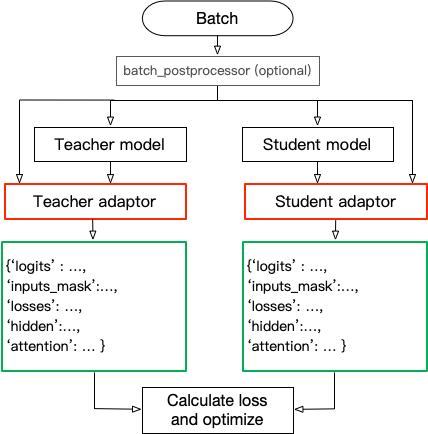
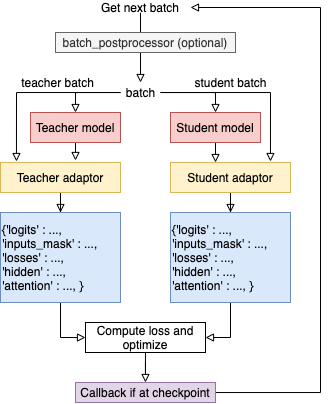
update docs

diff --git a/docs/source/Concepts.rst b/docs/source/Concepts.rst
@@ -22,10 +22,22 @@ Conventions
             # check batch datatype
             # passes batch to the model and adaptors
 
-    .. note:: 
-        1. During training, the distiller will check if the ``batch`` is a ``dict``, if so the model will be called as ``model(**batch, **args)``, otherwise the model is called as ``model(*batch, **args)``. Hence if the batch is not a dict, **users should make sure that the order of each element in the batch is the same as the order of the arguments of** ``model.forward``. ``args`` is used for passing additional parameters.
-        2. Users can define a ``batch_postprocessor`` function to post-process batches if needed. ``batch_postprocessor`` should take a batch and return a batch. See the explanation on ``train`` method of :ref:`distillers` for more details.
 
+Batch Format(important)
+-----------------------
+
+.. _forward-conventions:
+
+**Foward conventions**: each batch to be passed to the model should be a ``dict`` or ``tuple``:
+
+* if the batch is a ``dict``, the model will be called as ``model(**batch, **args)``;
+* if the batch is a ``tuple``, the model is called as ``model(*batch, **args)``. 
+
+Hence if the batch is not a dict, **users should make sure that the order of each element in the batch is the same as the order of the arguments of** ``model.forward``. ``args`` is used for passing additional parameters.
+
+Users can additionaly define a ``batch_postprocessor`` function to post-process batches if needed. ``batch_postprocessor`` should take a batch and return a batch. See the explanation on ``train`` method of :ref:`distillers` for more details.
+
+Since version 0.2.1, TextBrewer supports more flexible inputs scheme: users can **feed different batches to student and teacher**, or **feed the cached values** to save the forward pass time. See `Feed Different batches to Student and Teacher, Feed Cached Values`_.
 
 Configurations
 ==============
@@ -41,7 +53,7 @@ Distillers are in charge of conducting the actual experiments. The following dis
 * :class:`~textbrewer.BasicDistiller`: **single-teacher single-task** distillation, provides basic distillation strategies.
 * :class:`~textbrewer.GeneralDistiller` (Recommended): **single-teacher single-task** distillation, supports intermediate features matching. **Recommended most of the time**.
 * :class:`~textbrewer.MultiTeacherDistiller`: **multi-teacher** distillation, which distills multiple teacher models (of the same task) into a single student model. **This class doesn't support Intermediate features matching.**
-* :class:`~textbrewer.MultiTaskDistiller`: **multi-task** distillation, which distills multiple teacher models (of different tasks) into a single student. **This class doesn't support Intermediate features matching.**
+* :class:`~textbrewer.MultiTaskDistiller`: **multi-task** distillation, which distills multiple teacher models (of different tasks) into a single student.
 * :class:`~textbrewer.BasicTrainer`: Supervised training a single model on a labeled dataset, not for distillation. **It can be used to train a teacher model**.
 
 User-Defined Functions
@@ -145,3 +157,87 @@ In TextBrewer, there are two functions that should be implemented by users: :fun
         return {'logits': (model_outputs[0],),
             'hidden': model.outputs[1],
             'inputs_mask': batch[1]}
+
+.. _different_batches:
+
+Feed Different batches to Student and Teacher, Feed Cached Values
+=====================================================================
+
+Feed Different batches
+----------------------
+
+In some cases, student and teacher read different inputs. For example, if you distill a RoBERTa model to a BERT model, 
+they cannot share the inputs since they have different vocabularies.
+
+To solve this, one can build a dataset that returns a dict as the batch with keys ``'student'`` and ``'teacher'``.
+TextBrewer will unpack the dict, and feeds ``batch['student']`` to the student and its adaptor, feeds ``batch['teacher']`` to the teacher and its adaptor, following the :ref:`forward conventions <forward-conventions>`.
+
+Here is an example.
+
+    .. code-block:: python
+
+      import torch
+      from torch.utils.data import Dataset, TensorDataset, DataLoader
+
+      class TSDataset(Dataset):
+          def __init__(self, teacher_dataset, student_dataset):
+              # teacher_dataset and student_dataset are normal datasets 
+              # whose each element is a tuple or a dict.
+              assert len(teacher_dataset) == len(student_dataset), \
+                f"lengths of teacher_dataset {len(teacher_dataset)} and student_dataset {len(student_dataset)} are not the same!"
+
+              self.teacher_dataset = teacher_dataset
+              self.student_dataset = student_dataset
+
+          def __len__(self):
+              return len(self.teacher_dataset)
+
+          def __getitem__(self,i):
+              return {'teacher' : self.teacher_dataset[i], 'student' : self.student_dataset[i]}
+
+      teacher_dataset = TensorDataset(torch.randn(32,3),torch.randn(32,3))
+      student_dataset = TensorDataset(torch.randn(32,2),torch.randn(32,2))
+      tsdataset = TSDataset(teacher_dataset=teacher_dataset,student_dataset=student_dataset)
+      dataloader = DataLoader(dataset=tsdataset, ... )
+
+Feed Cached Values
+-------------------
+
+If you are ready to provide a dataset that returns dict with keys ``'student'`` and ``'teacher'`` like the one above, you can also add a another key ``'teacher_cache'``, which stores the pre-computed outputs from the teacher. Then TextBrewer will treat ``batch['teacher_cache']`` as the output from the teacher and feed it to the teacher's adaptor. No teacher's forward will be called.
+
+Here is an example.
+
+    .. code-block:: python
+
+      import torch
+      from torch.utils.data import Dataset, TensorDataset, DataLoader
+
+      class TSDataset(Dataset):
+          def __init__(self, teacher_dataset, student_dataset, teacher_cache):
+              # teacher_dataset and student_dataset are normal datasets 
+              # whose each element is a tuple or a dict.
+              # teacher_cache is a list of items; each item is the output from the teacher.
+              assert len(teacher_dataset) == len(student_dataset), \
+                f"lengths of teacher_dataset {len(teacher_dataset)} and student_dataset {len(student_dataset)} are not the same!"
+              assert len(teacher_dataset) == len(teacher_cache), \
+                f"lengths of teacher_dataset {len(teacher_dataset)} and teacher_cache {len(teacher_cache)} are not the same!"
+              self.teacher_dataset = teacher_dataset
+              self.student_dataset = student_dataset
+              self.teacher_cache = teacher_cache
+
+          def __len__(self):
+              return len(self.teacher_dataset)
+
+          def __getitem__(self,i):
+              return {'teacher' : self.teacher_dataset[i], 'student' : self.student_dataset[i], 'teacher_cache':self.teacher_cache[i]}
+
+      teacher_dataset = TensorDataset(torch.randn(32,3),torch.randn(32,3))
+      student_dataset = TensorDataset(torch.randn(32,2),torch.randn(32,2))
+
+      # We make some fake data and assume teacher model outputs are (logits, loss)
+      fake_logits = [torch.randn(3) for _ in range(32)]
+      fake_loss = [torch.randn(1)[0] for _ in range(32)]
+      teacher_cache = [(fake_logits[i],fake_loss[i]) for i in range(32)]
+
+      tsdataset = TSDataset(teacher_dataset=teacher_dataset,student_dataset=student_dataset, teacher_cache=teacher_cache)
+      dataloader = DataLoader(dataset=tsdataset, ... )

diff --git a/README.md b/README.md
@@ -88,6 +88,9 @@ Check our paper through [ACL Anthology](https://www.aclweb.org/anthology/2020.ac
 <!-- /TOC -->
 
 ## Introduction
+
+![](pics/arch.png)
+
 **Textbrewer** is designed for the knowledge distillation of NLP models. It provides various distillation methods and offers a distillation framework for quickly setting up experiments. 
 
 The main features of **TextBrewer** are:
@@ -122,6 +125,10 @@ To start distillation, users need to provide
 
 See [Full Documentation](https://textbrewer.readthedocs.io/) for detailed usages.
 
+### Architecture
+
+![](pics/arch.png)
+
 ## Installation
 
 * Requirements
@@ -149,6 +156,8 @@ See [Full Documentation](https://textbrewer.readthedocs.io/) for detailed usages
 ## Workflow
 
 ![](pics/distillation_workflow_en.png)
+
+![](pics/distillation_workflow2.png)
 
 * **Stage 1**: Preparation:
   1. Train the teacher model
@@ -186,7 +195,7 @@ print("student_model's parametrers:")
 result, _ = textbrewer.utils.display_parameters(student_model,max_level=3)
 print (result)
 
-# Define an adaptor for translating the model inputs and outputs
+# Define an adaptor for interpreting the model inputs and outputs
 def simple_adaptor(batch, model_outputs):
       # The second and third elements of model outputs are the logits and hidden states
     return {'logits': model_outputs[1],
@@ -218,6 +227,7 @@ with distiller:
 * [examples/cmrc2018\_example](examples/cmrc2018_example) (Chinese): distillation on CMRC 2018, a Chinese MRC task, using DRCD as data augmentation.
 * [examples/mnli\_example](examples/mnli_example) (English): distillation on MNLI, an English sentence-pair classification task. This example also shows how to perform multi-teacher distillation.
 * [examples/conll2003_example](examples/conll2003_example) (English): distillation on CoNLL-2003 English NER task, which is in form of sequence labeling.
+* [examples/msra_ner_example](examples/msra_ner_example) (Chinese): This example distills a Chinese-ELECTRA-base model on the MSRA NER task with distributed data-parallel training(single node, muliti-GPU).
 
 
 ## Experiments
@@ -291,22 +301,22 @@ We use GeneralDistiller in all the distillation experiments.
 We experiment on the following typical Enlgish datasets:
 
 | Dataset    | Task type | Metrics | \#Train | \#Dev | Note |
-| :---------- | -------- | ------- | ------- | ---- | ---- | 
+| :---------- | -------- | ------- | ------- | ---- | ---- |
 | [**MNLI**](https://www.nyu.edu/projects/bowman/multinli/)       | text classification | m/mm Acc | 393K    | 20K  | sentence-pair 3-class classification |
-| [**SQuAD 1.1**](https://rajpurkar.github.io/SQuAD-explorer/)   | reading comprehension | EM/F1   | 88K     | 11K  | span-extraction machine reading comprehension | 
+| [**SQuAD 1.1**](https://rajpurkar.github.io/SQuAD-explorer/)   | reading comprehension | EM/F1   | 88K     | 11K  | span-extraction machine reading comprehension |
 | [**CoNLL-2003**](https://www.clips.uantwerpen.be/conll2003/ner) | sequence labeling | F1      | 23K     | 6K   | named entity recognition |
 
 We list the public results from [DistilBERT](https://arxiv.org/abs/1910.01108), [BERT-PKD](https://arxiv.org/abs/1908.09355), [BERT-of-Theseus](https://arxiv.org/abs/2002.02925), [TinyBERT](https://arxiv.org/abs/1909.10351) and our results below for comparison.
 
 Public results:
 
-  | Model (public) | MNLI  | SQuAD  | CoNLL-2003 |
-  | :-------------  | --------------- | ------------- | --------------- |
-  | DistilBERT (T6)    | 81.6 / 81.1 | 78.1 / 86.2   | -               |
-  | BERT<sub>6</sub>-PKD (T6)     | 81.5 / 81.0     | 77.1 / 85.3   | -|
-  | BERT-of-Theseus (T6) | 82.4/  82.1   | -        | -                |
-  | BERT<sub>3</sub>-PKD (T3)     | 76.7 / 76.3     | -             | -|
-  | TinyBERT (T4-tiny) | 82.8 / 82.9                | 72.7 / 82.1   | -|
+| Model (public) | MNLI  | SQuAD  | CoNLL-2003 |
+| :-------------  | --------------- | ------------- | --------------- |
+| DistilBERT (T6)    | 81.6 / 81.1 | 78.1 / 86.2   | -               |
+| BERT<sub>6</sub>-PKD (T6)     | 81.5 / 81.0     | 77.1 / 85.3   | -|
+| BERT-of-Theseus (T6) | 82.4/  82.1   | -        | -                |
+| BERT<sub>3</sub>-PKD (T3)     | 76.7 / 76.3     | -             | -|
+| TinyBERT (T4-tiny) | 82.8 / 82.9                | 72.7 / 82.1   | -|
 
 Our results:
 
@@ -377,7 +387,7 @@ Distillers are in charge of conducting the actual experiments. The following dis
 * `BasicDistiller`: **single-teacher single-task** distillation, provides basic distillation strategies.
 * `GeneralDistiller` (Recommended): **single-teacher single-task** distillation, supports intermediate features matching. **Recommended most of the time**.
 * `MultiTeacherDistiller`: **multi-teacher** distillation, which distills multiple teacher models (of the same task) into a single student model. **This class doesn't support Intermediate features matching.**
-* `MultiTaskDistiller`: **multi-task** distillation, which distills multiple teacher models (of different tasks) into a single student. **This class doesn't support Intermediate features matching.**
+* `MultiTaskDistiller`: **multi-task** distillation, which distills multiple teacher models (of different tasks) into a single student.
 * `BasicTrainer`: Supervised training a single model on a labeled dataset, not for distillation. **It can be used to train a teacher model**.
 
 
@@ -406,9 +416,18 @@ We recommend that users use pre-trained student models whenever possible to full
 
 **A**: Knowledge distillation usually requires more training epochs and larger learning rate than training on the labeled dataset. For example, training SQuAD on BERT-base usually takes 3 epochs with lr=3e-5; however, distillation takes 30~50 epochs with lr=1e-4. **The conclusions are based on our experiments, and you are advised to try on your own data**.
 
+**Q**: My teacher model and student model take different inputs (they do not share vocabularies), so how can I distill?
+
+**A**: You need to feed different batches to the teacher and the student. See the section [Feed Different batches to Student and Teacher, Feed Cached Values](https://textbrewer.readthedocs.io/en/latest/Concepts.html#feed-different-batches-to-student-and-teacher-feed-cached-values) in the full documentation.
+
+**Q**: I have stored the logits from my teacher model. Can I use them in the distillation to save the forward pass time?
+
+**A**: Yes, see the section [Feed Different batches to Student and Teacher, Feed Cached Values](https://textbrewer.readthedocs.io/en/latest/Concepts.html#feed-different-batches-to-student-and-teacher-feed-cached-values) in the full documentation.
+
 ## Known Issues
 
 * ~~Multi-GPU training support is only available through `DataParallel` currently.~~
+* Multi-label classification is not supported.
 
 ## Citation
 

diff --git a/README_ZH.md b/README_ZH.md
@@ -25,8 +25,6 @@
 
 ### [TextBrewer完整文档](https://textbrewer.readthedocs.io/)
 
-## 哈工大讯飞联合实验室（HFL）2021提前批校园招聘开始了！欢迎各位[投递简历](https://wj.qq.com/s2/6730642/762d)！
-
 ## 更新
 
 **Aug 24, 2020**
@@ -123,6 +121,10 @@
 
 详细的API可参见 [完整文档](https://textbrewer.readthedocs.io/)。
 
+### TextBrewer结构
+
+![](pics/arch.png)
+
 ## 安装
 
 ### 安装要求
@@ -153,6 +155,8 @@ pip install ./textbrewer
 ## 工作流程
 
 ![](pics/distillation_workflow.png)
+
+![](pics/distillation_workflow2.png)
 
 * **Stage 1 :** 蒸馏之前的准备工作:
   1. 训练**教师**模型
@@ -220,6 +224,7 @@ with distiller:
 * [examples/cmrc2018\_example](examples/cmrc2018_example) (中文): CMRC 2018上的中文阅读理解任务蒸馏，并使用DRCD数据集做数据增强。
 * [examples/mnli\_example](examples/mnli_example) (英文): MNLI任务上的英文句对分类任务蒸馏，并展示如何使用多教师蒸馏。
 * [examples/conll2003_example](examples/conll2003_example) (英文): CoNLL-2003英文实体识别任务上的序列标注任务蒸馏。
+* [examples/msra_ner_example](examples/msra_ner_example) (中文): MSRA NER(中文命名实体识别)任务上，使用分布式数据并行训练的Chinese-ELECTRA-base模型蒸馏。
 
 ## 蒸馏效果
 
@@ -289,22 +294,22 @@ distill_config = DistillationConfig(temperature = 8, intermediate_matches = matc
 在英文实验中，我们使用了如下三个典型数据集。
 
 | Dataset    | Task type | Metrics | \#Train | \#Dev | Note |
-| :---------- | -------- | ------- | ------- | ---- | ---- | 
+| :---------- | -------- | ------- | ------- | ---- | ---- |
 | [**MNLI**](https://www.nyu.edu/projects/bowman/multinli/)       | 文本分类 | m/mm Acc | 393K    | 20K  | 句对三分类任务 |
-| [**SQuAD 1.1**](https://rajpurkar.github.io/SQuAD-explorer/)   | 阅读理解 | EM/F1   | 88K     | 11K  | 篇章片段抽取型阅读理解 | 
+| [**SQuAD 1.1**](https://rajpurkar.github.io/SQuAD-explorer/)   | 阅读理解 | EM/F1   | 88K     | 11K  | 篇章片段抽取型阅读理解 |
 | [**CoNLL-2003**](https://www.clips.uantwerpen.be/conll2003/ner) | 序列标注 | F1      | 23K     | 6K   | 命名实体识别任务 |
 
 我们在下面两表中列出了[DistilBERT](https://arxiv.org/abs/1910.01108), [BERT-PKD](https://arxiv.org/abs/1908.09355), [BERT-of-Theseus](https://arxiv.org/abs/2002.02925), [TinyBERT](https://arxiv.org/abs/1909.10351) 等公开的蒸馏结果，并与我们的结果做对比。
 
 Public results:
 
-  | Model (public) | MNLI | SQuAD | CoNLL-2003 |
-  | :-------------  | --------------- | ------------- | --------------- |
-  | DistilBERT (T6)    | 81.6 / 81.1 | 78.1 / 86.2   | -               |
-  | BERT<sub>6</sub>-PKD (T6)     | 81.5 / 81.0     | 77.1 / 85.3   | -|
-  | BERT-of-Theseus (T6) | 82.4/  82.1   | -        | -                |
-  | BERT<sub>3</sub>-PKD (T3)     | 76.7 / 76.3     | -             | -|
-  | TinyBERT (T4-tiny) | 82.8 / 82.9                | 72.7 / 82.1   | -|
+| Model (public) | MNLI | SQuAD | CoNLL-2003 |
+| :-------------  | --------------- | ------------- | --------------- |
+| DistilBERT (T6)    | 81.6 / 81.1 | 78.1 / 86.2   | -               |
+| BERT<sub>6</sub>-PKD (T6)     | 81.5 / 81.0     | 77.1 / 85.3   | -|
+| BERT-of-Theseus (T6) | 82.4/  82.1   | -        | -                |
+| BERT<sub>3</sub>-PKD (T3)     | 76.7 / 76.3     | -             | -|
+| TinyBERT (T4-tiny) | 82.8 / 82.9                | 72.7 / 82.1   | -|
 
 Our results:
 
@@ -371,7 +376,7 @@ Distiller负责执行实际的蒸馏过程。目前实现了以下的distillers:
 * `BasicDistiller`: 提供**单模型单任务**蒸馏方式。可用作测试或简单实验。
 * `GeneralDistiller` (常用): 提供**单模型单任务**蒸馏方式，并且支持**中间层特征匹配**，一般情况下**推荐使用**。
 * `MultiTeacherDistiller`: 多教师蒸馏。将多个（同任务）教师模型蒸馏到一个学生模型上。**暂不支持中间层特征匹配**。
-* `MultiTaskDistiller`：多任务蒸馏。将多个（不同任务）单任务教师模型蒸馏到一个多任务学生模型上。**暂不支持中间层特征匹配**。
+* `MultiTaskDistiller`：多任务蒸馏。将多个（不同任务）单任务教师模型蒸馏到一个多任务学生模型。
 * `BasicTrainer`：用于单个模型的有监督训练，而非蒸馏。**可用于训练教师模型**。
 
 ### 用户定义函数
@@ -398,9 +403,18 @@ Distiller负责执行实际的蒸馏过程。目前实现了以下的distillers:
 
 **A**: 知识蒸馏的比有标签数据上的训练需要更多的训练轮数与更大的学习率。比如，BERT-base上训练SQuAD一般以lr=3e-5训练3轮左右即可达到较好的效果；而蒸馏时需要以lr=1e-4训练30~50轮。当然具体到各个任务上肯定还有区别，**我们的建议仅是基于我们的经验得出的，仅供参考**。
 
+**Q**: 我的教师模型和学生模型的输入不同（比如词表不同导致input_ids不兼容），该如何进行蒸馏？
+
+**A**: 需要分别为教师模型和学生模型提供不同的batch，参见完整文档中的 [Feed Different batches to Student and Teacher, Feed Cached Values](https://textbrewer.readthedocs.io/en/latest/Concepts.html#feed-different-batches-to-student-and-teacher-feed-cached-values) 章节。
+
+**Q**: 我缓存了教师模型的输出，它们可以用于加速蒸馏吗？
+
+**A**: 可以, 参见完整文档中的 [Feed Different batches to Student and Teacher, Feed Cached Values](https://textbrewer.readthedocs.io/en/latest/Concepts.html#feed-different-batches-to-student-and-teacher-feed-cached-values) 章节。
+
 ## 已知问题
 
 * ~~尚不支持DataParallel以外的多卡训练策略。~~
+* 尚不支持多标签分类任务。
 
 ## 引用
 

diff --git a/docs/source/Tutorial.rst b/docs/source/Tutorial.rst
@@ -21,6 +21,13 @@ Introduction
 2. **Configurations and presets**: Configuration classes for training and distillation, and predefined distillation loss functions and strategies. 
 3. **Utilities**: auxiliary tools such as model parameters analysis. 
 
+Architecture
+------------
+
+.. image:: ../../pics/arch.png
+      :width: 600px
+      :align: center
+
 Installation
 ============
 
@@ -51,6 +58,8 @@ Workflow
 ========
 
 .. image:: ../../pics/distillation_workflow_en.png
+
+.. image:: ../../pics/distillation_workflow2.png
 
 To start distillation, users need to provide
 
@@ -98,7 +107,7 @@ Distill with TextBrewer:
   result, _ = textbrewer.utils.display_parameters(student_model,max_level=3)
   print (result)
 
-  # Define an adaptor for translating the model inputs and outputs
+  # Define an adaptor for interpreting the model inputs and outputs
   def simple_adaptor(batch, model_outputs):
       # The second and third elements of model outputs are the logits and hidden states
       return {'logits': model_outputs[1],
@@ -133,6 +142,7 @@ Examples can be found in the `examples <https://github.com/airaria/TextBrewer/tr
 * `examples/cmrc2018\_example <https://github.com/airaria/TextBrewer/tree/master/examples/cmrc2018_example>`_ (Chinese): distillation on CMRC 2018, a Chinese MRC task, using DRCD as data augmentation.
 * `examples/mnli\_example <https://github.com/airaria/TextBrewer/tree/master/examples/mnli_example>`_ (English): distillation on MNLI, an English sentence-pair classification task. This example also shows how to perform multi-teacher distillation.
 * `examples/conll2003_example <https://github.com/airaria/TextBrewer/tree/master/examples/conll2003_example>`_ (English): distillation on CoNLL-2003 English NER task, which is in the form of sequence labeling.
+* `examples/msra_ner_example <https://github.com/airaria/TextBrewer/tree/master/examples/msra_ner_example>`_ (Chinese): This example distills a Chinese-ELECTRA-base model on the MSRA NER task with distributed data-parallel training(single node, muliti-GPU).
 
 FAQ
 ===
@@ -147,11 +157,18 @@ We recommend that users use pre-trained student models whenever possible to full
 
 **A**: Knowledge distillation usually requires more training epochs and a larger learning rate than training on the labeled dataset. For example, training SQuAD on BERT-base usually takes 3 epochs with lr=3e-5; however, distillation takes 30~50 epochs with lr=1e-4. **The conclusions are based on our experiments, and you are advised to try on your own data**.
 
+**Q**: My teacher model and student model take different inputs (they do not share vocabularies), so how can I distill?
+
+**A**: You need to feed different batches to the teacher and the student. See :ref:`Feed Different batches to Student and Teacher, Feed Cached Values <different_batches>`.
+
+**Q**: I have stored the logits from my teacher model. Can I use them in the distillation to save the forward pass time?
+
+**A**: Yes, see :ref:`Feed Different batches to Student and Teacher, Feed Cached Values <different_batches>`.
+
 Known Issues
 ============
 
-* Compatibility with FP16 training has not been tested.
-* Multi-GPU training support is only available through ``DataParallel`` currently.
+* Multi-label classification is not supported.
 
 Citation
 ========
